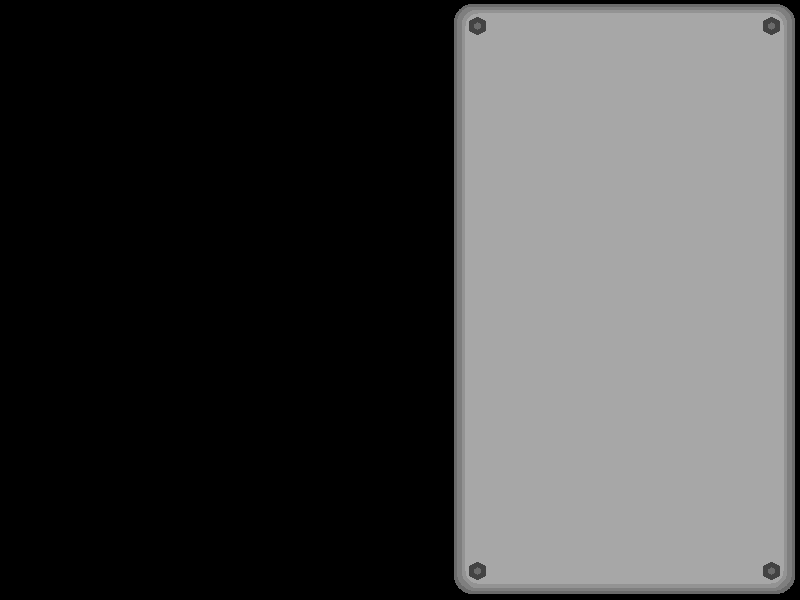
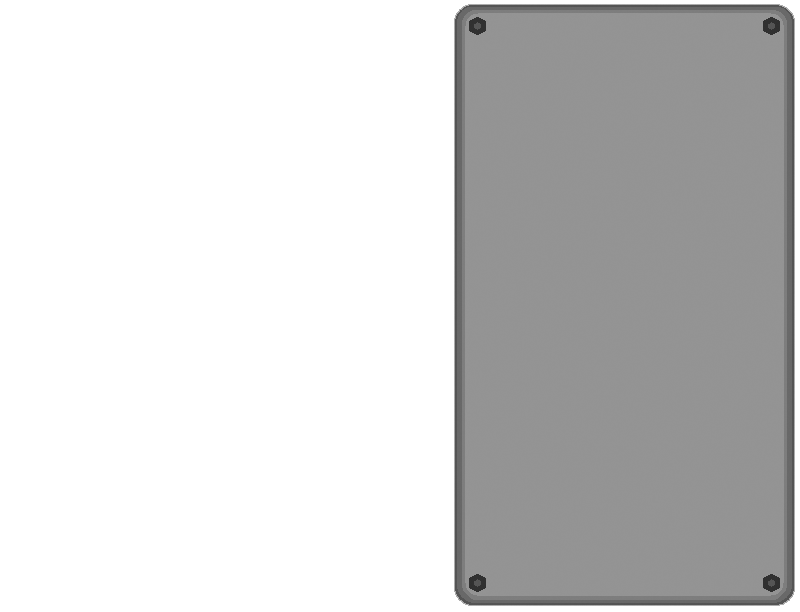
Fixed the window size bug.

diff --git a/project/src/view/TitleScreen.java b/project/src/view/TitleScreen.java
@@ -27,7 +27,7 @@ public class TitleScreen extends JPanel
 
 	private TitleScreen()
 	{
-		this(800, 600);
+		this(800, 612);
 	}
 
 	// Main constructor for the title screen
@@ -37,14 +37,14 @@ public class TitleScreen extends JPanel
 		setPreferredSize(new Dimension(x, y));
 		setLayout(null);
 		// is background neccesary???
-		setBackground(Color.BLUE);
+		setBackground(Color.BLACK);
 	}
 
 	// This method can be called to get the title screen object
 	public static TitleScreen getTitleScreen()
 	{
 		if (title == null)
-			title = new TitleScreen(800, 600);
+			title = new TitleScreen(800, 612);
 		return title;
 	}
 

diff --git a/project/src/view/TitleScreenUnitPanel.java b/project/src/view/TitleScreenUnitPanel.java
@@ -58,7 +58,7 @@ public class TitleScreenUnitPanel extends JPanel
 
 	public TitleScreenUnitPanel()
 	{
-		this(800, 600);
+		this(800, 612);
 	}
 
 	public TitleScreenUnitPanel(int x, int y)
@@ -66,7 +66,7 @@ public class TitleScreenUnitPanel extends JPanel
 		setPreferredSize(new Dimension(x, y));
 		setLayout(null);
 		// is background color neccesary at all?
-		setBackground(Color.RED);
+		setBackground(Color.BLACK);
 
 		buttonListener = new ButtonListener();
 		listListener = new ListListener();

diff --git a/project/src/view/TitleScreenAboutPanel.java b/project/src/view/TitleScreenAboutPanel.java
@@ -29,7 +29,7 @@ public class TitleScreenAboutPanel extends JPanel
 	
 	public TitleScreenAboutPanel()
 	{
-		this(800,600);
+		this(800,612);
 	}
 	
 	public TitleScreenAboutPanel(int x, int y)
@@ -37,7 +37,7 @@ public class TitleScreenAboutPanel extends JPanel
 		setPreferredSize(new Dimension(x, y));
 		setLayout(null);
 		// is background color neccesary at all?
-		setBackground(Color.RED);
+		setBackground(Color.BLACK);
 
 		listener = new MenuListener();
 

diff --git a/project/src/view/TitleScreenMainPanel.java b/project/src/view/TitleScreenMainPanel.java
@@ -28,7 +28,7 @@ public class TitleScreenMainPanel extends JPanel
 
 	public TitleScreenMainPanel()
 	{
-		this(800, 600);
+		this(800, 612);
 	}
 
 	public TitleScreenMainPanel(int x, int y)
@@ -36,7 +36,7 @@ public class TitleScreenMainPanel extends JPanel
 		setPreferredSize(new Dimension(x, y));
 		setLayout(null);
 		// is background color neccesary at all?
-		setBackground(Color.RED);
+		setBackground(Color.BLACK);
 
 		listener = new MenuListener();
 

diff --git a/project/src/view/MainView.java b/project/src/view/MainView.java
@@ -25,7 +25,7 @@ public class MainView extends JFrame implements Observer{
 	private List<Character> playerCharacters;
 	
 	public MainView(){
-		this(800,600);
+		this(800,612);
 	}
 	
 	public MainView(int x, int y){
@@ -71,7 +71,7 @@ public class MainView extends JFrame implements Observer{
 			game.addObserver(this);
 		}
 		if(level == null){
-			level = new Level(game, 800, 600);
+			level = new Level(game, 800, 612);
 		}
 		
 		add(level);

diff --git a/project/src/view/Level.java b/project/src/view/Level.java
@@ -34,7 +34,7 @@ public class Level extends JPanel
 	
 	//Level Constructor
 	public Level(){
-		define(800, 600);
+		define(800, 612);
 	}
 	
 	public Level(int x, int y){
